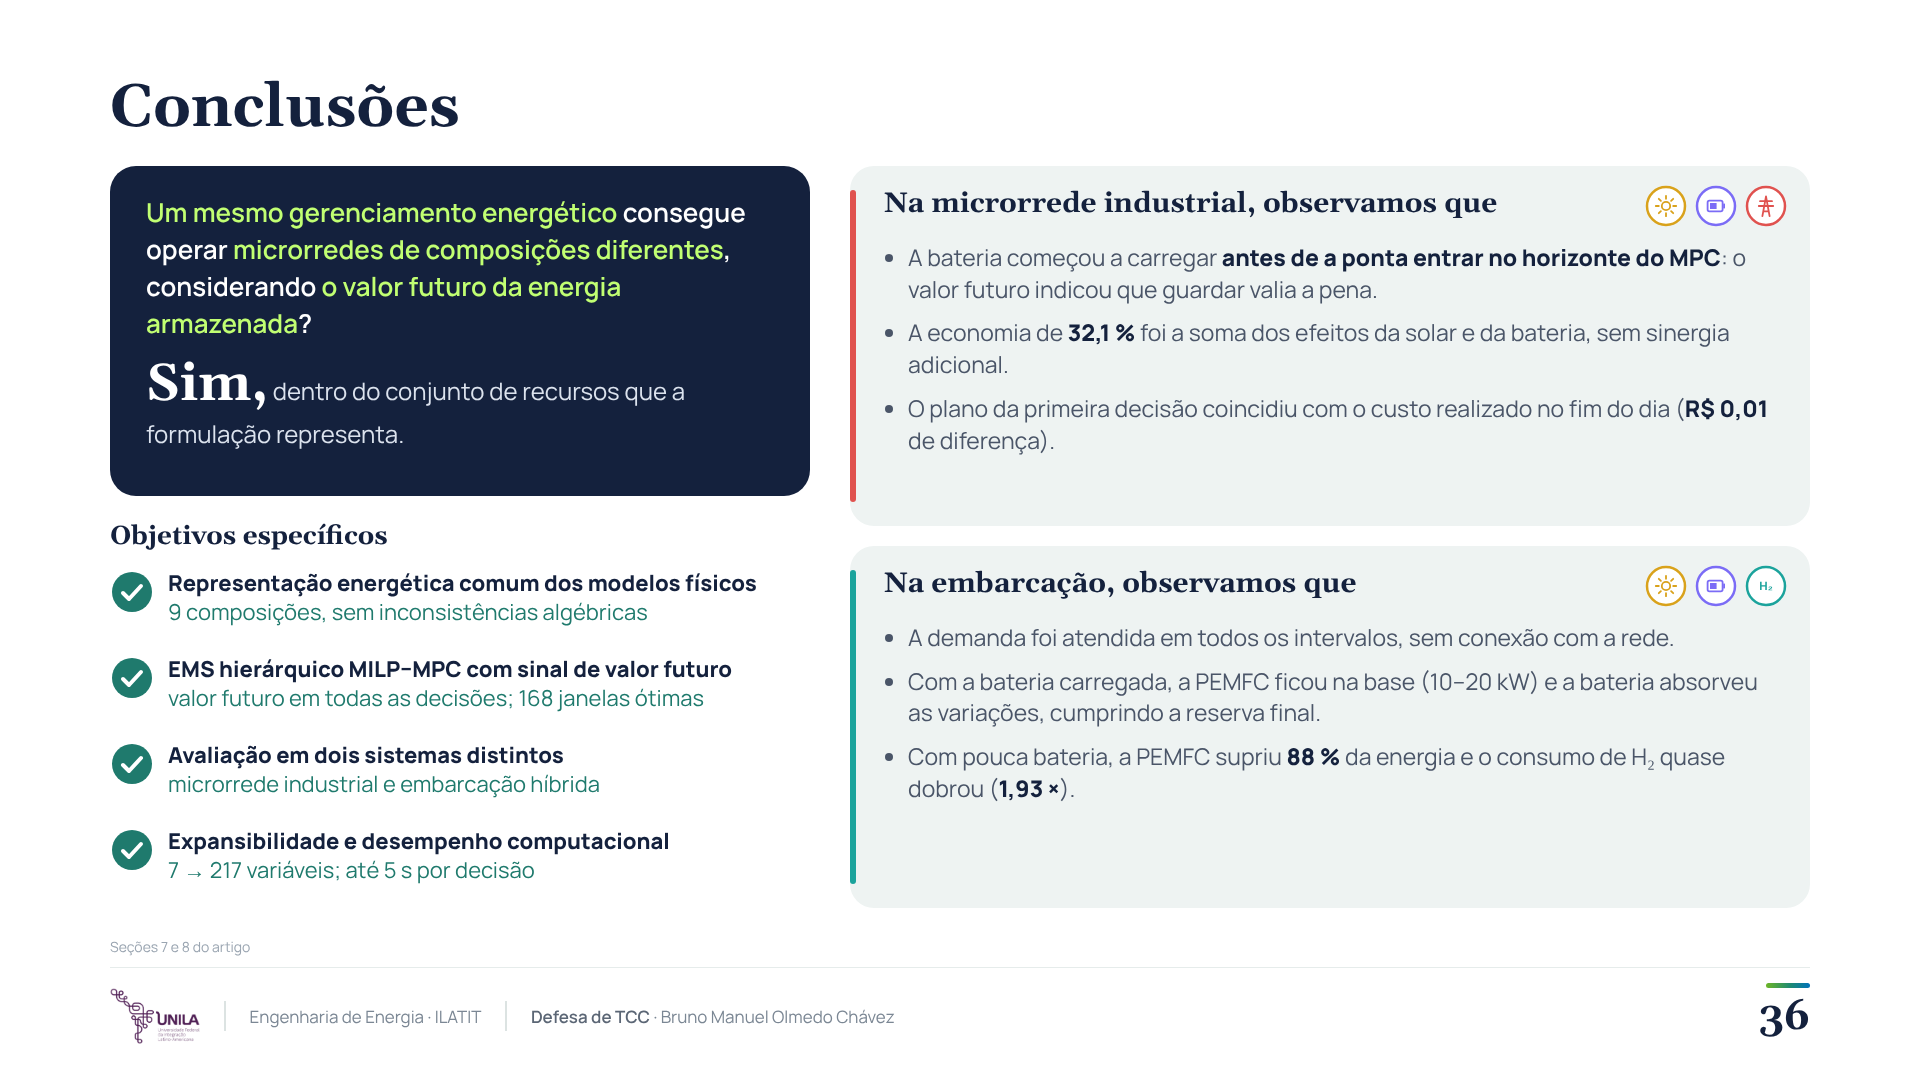
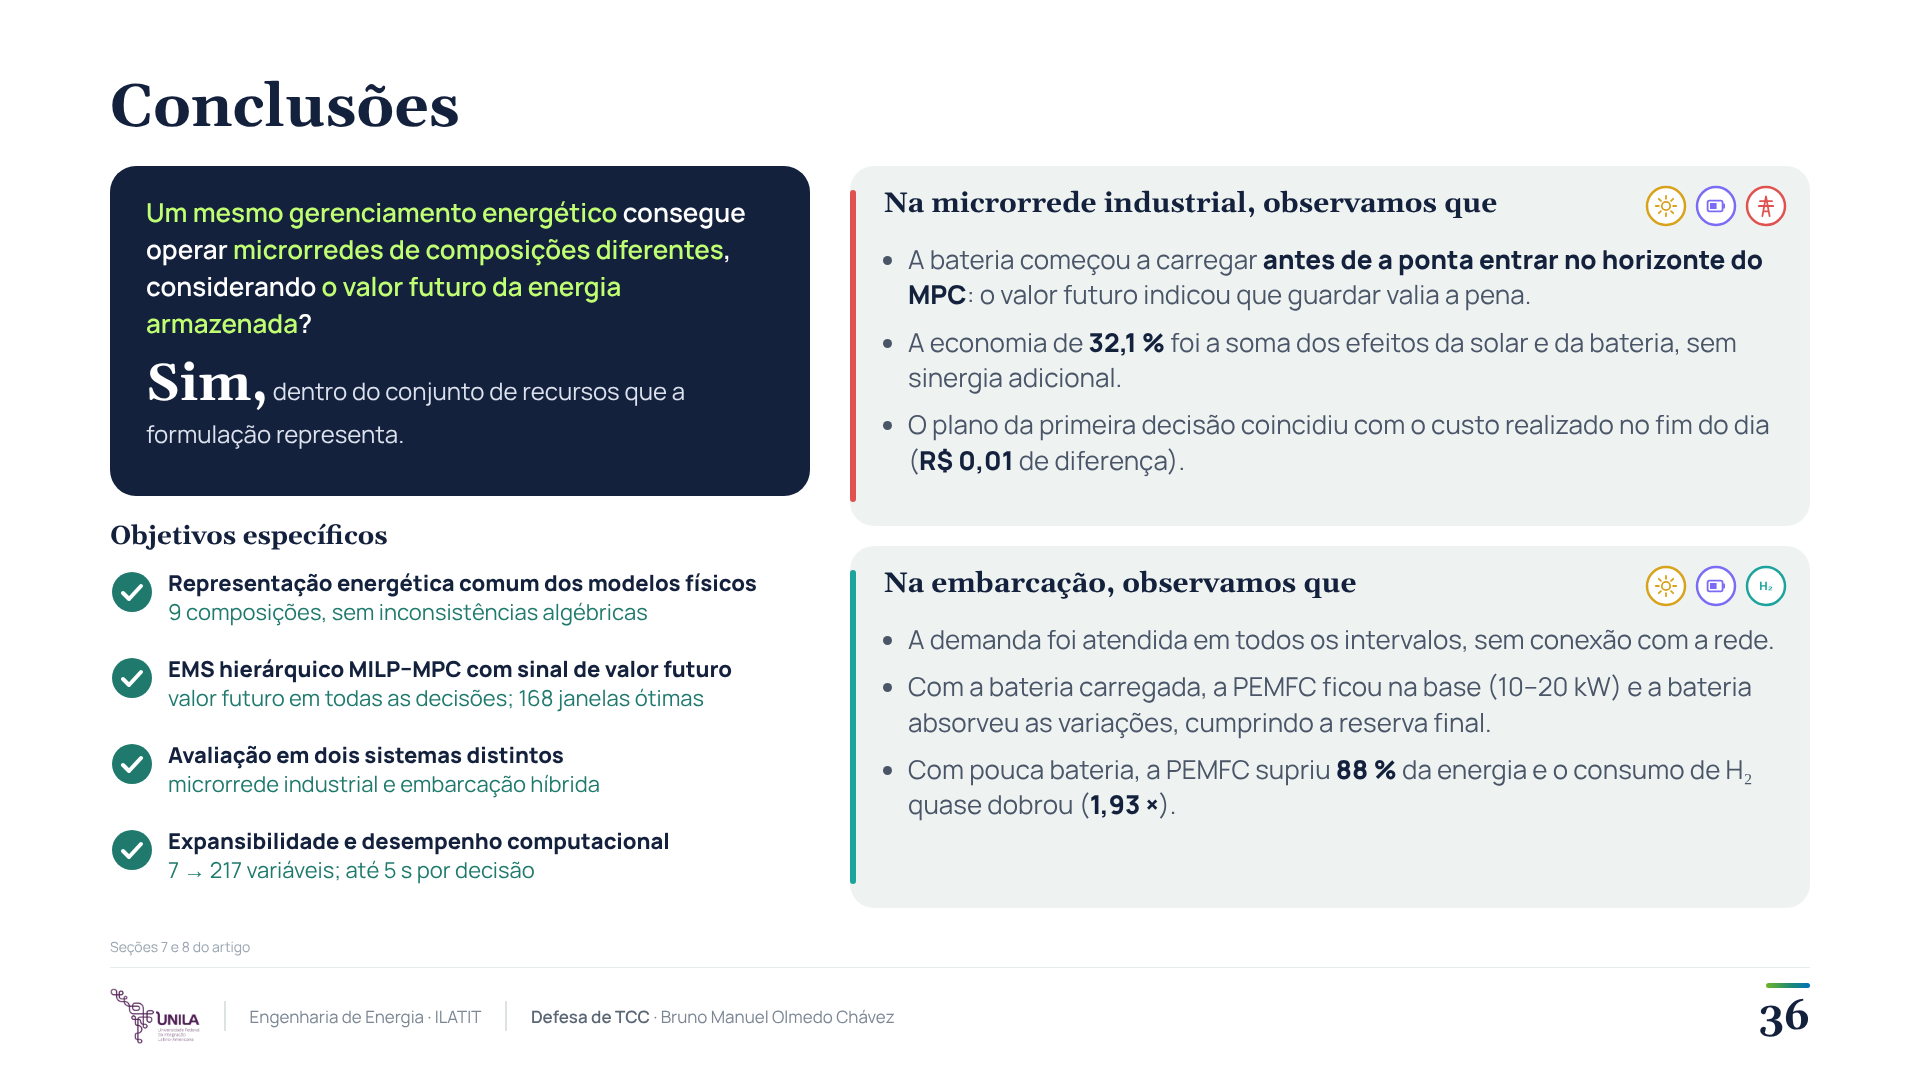
docs(defesa): slide 36 — texto dos cartões da direita maior (26 px)
Claude-Session: https://claude.ai/code/session_01WQ2GpNmr661smFWiS8XCqs

Changed region(s): [[0.4688, 0.2139, 0.9375, 0.4583], [0.4688, 0.5806, 0.9375, 0.7639]]

diff --git a/docs/defesa_tcc/slides/S36_conclusoes.html b/docs/defesa_tcc/slides/S36_conclusoes.html
@@ -16,4 +16,4 @@ html,body{width:1920px;height:1080px;overflow:hidden;background:#fff}
 .p b{font-weight:800;color:#14213D}
 .p i{font-style:normal;color:#C0532F;font-weight:800}
 .p u{text-decoration:none;color:#1F7A6D;font-weight:800}
-</style></head><body><div class="slide"><div class="tt">Conclusões</div><svg width="1920" height="1080" viewBox="0 0 1920 1080" style="position:absolute;left:0;top:0"><rect x="110" y="166" width="700" height="330" rx="26" fill="#14213D"/><circle cx="132" cy="592" r="20" fill="#1F7A6D"/><g transform="translate(112 572)"><path d="M11 21 L17 27 L29 14" fill="none" stroke="#fff" stroke-width="4" stroke-linecap="round" stroke-linejoin="round"/></g><circle cx="132" cy="678" r="20" fill="#1F7A6D"/><g transform="translate(112 658)"><path d="M11 21 L17 27 L29 14" fill="none" stroke="#fff" stroke-width="4" stroke-linecap="round" stroke-linejoin="round"/></g><circle cx="132" cy="764" r="20" fill="#1F7A6D"/><g transform="translate(112 744)"><path d="M11 21 L17 27 L29 14" fill="none" stroke="#fff" stroke-width="4" stroke-linecap="round" stroke-linejoin="round"/></g><circle cx="132" cy="850" r="20" fill="#1F7A6D"/><g transform="translate(112 830)"><path d="M11 21 L17 27 L29 14" fill="none" stroke="#fff" stroke-width="4" stroke-linecap="round" stroke-linejoin="round"/></g><rect x="850" y="166" width="960" height="360" rx="24" fill="#EEF3F2"/><rect x="850" y="190" width="6" height="312" rx="3" fill="#E0524F"/><circle cx="1666" cy="206" r="19" fill="#fff" stroke="#D9A21B" stroke-width="2.5"/><svg x="1654" y="194" width="24" height="24" viewBox="0 0 40 40" style="color:#D9A21B"><circle cx="20" cy="20" r="7" fill="none" stroke="currentColor" stroke-width="3"/><g stroke="currentColor" stroke-width="3" stroke-linecap="round"><path d="M20 3v5M20 32v5M3 20h5M32 20h5M8 8l3.5 3.5M28.5 28.5L32 32M8 32l3.5-3.5M28.5 11.5L32 8"/></g></svg><circle cx="1716" cy="206" r="19" fill="#fff" stroke="#7B6CF6" stroke-width="2.5"/><svg x="1704" y="194" width="24" height="24" viewBox="0 0 40 40" style="color:#7B6CF6"><rect x="6" y="11" width="25" height="18" rx="3" fill="none" stroke="currentColor" stroke-width="3"/><rect x="32" y="16" width="3" height="8" fill="currentColor"/><rect x="10" y="15" width="11" height="10" fill="currentColor"/></svg><circle cx="1766" cy="206" r="19" fill="#fff" stroke="#E0524F" stroke-width="2.5"/><svg x="1754" y="194" width="24" height="24" viewBox="0 0 40 40" style="color:#E0524F"><g fill="none" stroke="currentColor" stroke-width="3" stroke-linejoin="round" stroke-linecap="round"><path d="M14 37L20 4l6 33M10 12h20M8 20h24M16 29h8"/></g></svg><rect x="850" y="546" width="960" height="362" rx="24" fill="#EEF3F2"/><rect x="850" y="570" width="6" height="314" rx="3" fill="#1BA39C"/><circle cx="1666" cy="586" r="19" fill="#fff" stroke="#D9A21B" stroke-width="2.5"/><svg x="1654" y="574" width="24" height="24" viewBox="0 0 40 40" style="color:#D9A21B"><circle cx="20" cy="20" r="7" fill="none" stroke="currentColor" stroke-width="3"/><g stroke="currentColor" stroke-width="3" stroke-linecap="round"><path d="M20 3v5M20 32v5M3 20h5M32 20h5M8 8l3.5 3.5M28.5 28.5L32 32M8 32l3.5-3.5M28.5 11.5L32 8"/></g></svg><circle cx="1716" cy="586" r="19" fill="#fff" stroke="#7B6CF6" stroke-width="2.5"/><svg x="1704" y="574" width="24" height="24" viewBox="0 0 40 40" style="color:#7B6CF6"><rect x="6" y="11" width="25" height="18" rx="3" fill="none" stroke="currentColor" stroke-width="3"/><rect x="32" y="16" width="3" height="8" fill="currentColor"/><rect x="10" y="15" width="11" height="10" fill="currentColor"/></svg><circle cx="1766" cy="586" r="19" fill="#fff" stroke="#1BA39C" stroke-width="2.5"/><svg x="1754" y="574" width="24" height="24" viewBox="0 0 40 40" style="color:#1BA39C"><text x="20" y="27" text-anchor="middle" font-family="Manrope,sans-serif" font-weight="800" font-size="19" fill="currentColor">H₂</text></svg></svg><div class="d " style="left:146px;top:194px;width:630px;font:600 26px/1.42 Manrope;color:#fff"><span style="color:#C1FF72">Um mesmo gerenciamento energético</span> consegue operar <span style="color:#C1FF72">microrredes de composições diferentes</span>, considerando <span style="color:#C1FF72">o valor futuro da energia armazenada</span>?</div><div class="d " style="left:146px;top:352px;width:630px;line-height:1.2"><span style="font:700 52px Gelasio,serif;color:#fff">Sim,</span><span style="font:500 24px/1.35 Manrope;color:#DCE3EE"> dentro do conjunto de recursos que a formulação representa.</span></div><div class="d " style="left:110px;top:520px;width:700px;font:700 26px Gelasio,serif;color:#14213D">Objetivos específicos</div><div class="d " style="left:168px;top:570px;width:640px;"><div style="font:700 22px/1.25 Manrope;color:#14213D">Representação energética comum dos modelos físicos</div><div style="font:500 22px/1.3 Manrope;color:#1F7A6D">9 composições, sem inconsistências algébricas</div></div><div class="d " style="left:168px;top:656px;width:640px;"><div style="font:700 22px/1.25 Manrope;color:#14213D">EMS hierárquico MILP–MPC com sinal de valor futuro</div><div style="font:500 22px/1.3 Manrope;color:#1F7A6D">valor futuro em todas as decisões; 168 janelas ótimas</div></div><div class="d " style="left:168px;top:742px;width:640px;"><div style="font:700 22px/1.25 Manrope;color:#14213D">Avaliação em dois sistemas distintos</div><div style="font:500 22px/1.3 Manrope;color:#1F7A6D">microrrede industrial e embarcação híbrida</div></div><div class="d " style="left:168px;top:828px;width:640px;"><div style="font:700 22px/1.25 Manrope;color:#14213D">Expansibilidade e desempenho computacional</div><div style="font:500 22px/1.3 Manrope;color:#1F7A6D">7 → 217 variáveis; até 5 s por decisão</div></div><div class="d " style="left:884px;top:186px;width:700px;font:700 28px Gelasio,serif;color:#14213D">Na microrrede industrial, observamos que</div><div class="d p" style="left:884px;top:242px;width:892px;font-size:23px;line-height:1.38"><ul style="margin:0;padding-left:24px"><li style="margin:0 0 12px 0">A bateria começou a carregar <b>antes de a ponta entrar no horizonte do MPC</b>: o valor futuro indicou que guardar valia a pena.</li><li style="margin:0 0 12px 0">A economia de <b>32,1&nbsp;%</b> foi a soma dos efeitos da solar e da bateria, sem sinergia adicional.</li><li style="margin:0 0 12px 0">O plano da primeira decisão coincidiu com o custo realizado no fim do dia (<b>R$&nbsp;0,01</b> de diferença).</li></ul></div><div class="d " style="left:884px;top:566px;width:700px;font:700 28px Gelasio,serif;color:#14213D">Na embarcação, observamos que</div><div class="d p" style="left:884px;top:622px;width:892px;font-size:23px;line-height:1.38"><ul style="margin:0;padding-left:24px"><li style="margin:0 0 12px 0">A demanda foi atendida em todos os intervalos, sem conexão com a rede.</li><li style="margin:0 0 12px 0">Com a bateria carregada, a PEMFC ficou na base (10–20&nbsp;kW) e a bateria absorveu as variações, cumprindo a reserva final.</li><li style="margin:0 0 12px 0">Com pouca bateria, a PEMFC supriu <b>88&nbsp;%</b> da energia e o consumo de H₂ quase dobrou (<b>1,93&nbsp;×</b>).</li></ul></div><div class="ref">Seções 7 e 8 do artigo</div><div class="hl" style="bottom:112px"></div><div class="ft"><img src="../capa/assets/unila.png"><div class="sep"></div><span>Engenharia de Energia · ILATIT</span><div class="sep"></div><span><b>Defesa de TCC</b> · Bruno Manuel Olmedo Chávez</span></div><div class="pn">36</div></div></body></html>
+</style></head><body><div class="slide"><div class="tt">Conclusões</div><svg width="1920" height="1080" viewBox="0 0 1920 1080" style="position:absolute;left:0;top:0"><rect x="110" y="166" width="700" height="330" rx="26" fill="#14213D"/><circle cx="132" cy="592" r="20" fill="#1F7A6D"/><g transform="translate(112 572)"><path d="M11 21 L17 27 L29 14" fill="none" stroke="#fff" stroke-width="4" stroke-linecap="round" stroke-linejoin="round"/></g><circle cx="132" cy="678" r="20" fill="#1F7A6D"/><g transform="translate(112 658)"><path d="M11 21 L17 27 L29 14" fill="none" stroke="#fff" stroke-width="4" stroke-linecap="round" stroke-linejoin="round"/></g><circle cx="132" cy="764" r="20" fill="#1F7A6D"/><g transform="translate(112 744)"><path d="M11 21 L17 27 L29 14" fill="none" stroke="#fff" stroke-width="4" stroke-linecap="round" stroke-linejoin="round"/></g><circle cx="132" cy="850" r="20" fill="#1F7A6D"/><g transform="translate(112 830)"><path d="M11 21 L17 27 L29 14" fill="none" stroke="#fff" stroke-width="4" stroke-linecap="round" stroke-linejoin="round"/></g><rect x="850" y="166" width="960" height="360" rx="24" fill="#EEF3F2"/><rect x="850" y="190" width="6" height="312" rx="3" fill="#E0524F"/><circle cx="1666" cy="206" r="19" fill="#fff" stroke="#D9A21B" stroke-width="2.5"/><svg x="1654" y="194" width="24" height="24" viewBox="0 0 40 40" style="color:#D9A21B"><circle cx="20" cy="20" r="7" fill="none" stroke="currentColor" stroke-width="3"/><g stroke="currentColor" stroke-width="3" stroke-linecap="round"><path d="M20 3v5M20 32v5M3 20h5M32 20h5M8 8l3.5 3.5M28.5 28.5L32 32M8 32l3.5-3.5M28.5 11.5L32 8"/></g></svg><circle cx="1716" cy="206" r="19" fill="#fff" stroke="#7B6CF6" stroke-width="2.5"/><svg x="1704" y="194" width="24" height="24" viewBox="0 0 40 40" style="color:#7B6CF6"><rect x="6" y="11" width="25" height="18" rx="3" fill="none" stroke="currentColor" stroke-width="3"/><rect x="32" y="16" width="3" height="8" fill="currentColor"/><rect x="10" y="15" width="11" height="10" fill="currentColor"/></svg><circle cx="1766" cy="206" r="19" fill="#fff" stroke="#E0524F" stroke-width="2.5"/><svg x="1754" y="194" width="24" height="24" viewBox="0 0 40 40" style="color:#E0524F"><g fill="none" stroke="currentColor" stroke-width="3" stroke-linejoin="round" stroke-linecap="round"><path d="M14 37L20 4l6 33M10 12h20M8 20h24M16 29h8"/></g></svg><rect x="850" y="546" width="960" height="362" rx="24" fill="#EEF3F2"/><rect x="850" y="570" width="6" height="314" rx="3" fill="#1BA39C"/><circle cx="1666" cy="586" r="19" fill="#fff" stroke="#D9A21B" stroke-width="2.5"/><svg x="1654" y="574" width="24" height="24" viewBox="0 0 40 40" style="color:#D9A21B"><circle cx="20" cy="20" r="7" fill="none" stroke="currentColor" stroke-width="3"/><g stroke="currentColor" stroke-width="3" stroke-linecap="round"><path d="M20 3v5M20 32v5M3 20h5M32 20h5M8 8l3.5 3.5M28.5 28.5L32 32M8 32l3.5-3.5M28.5 11.5L32 8"/></g></svg><circle cx="1716" cy="586" r="19" fill="#fff" stroke="#7B6CF6" stroke-width="2.5"/><svg x="1704" y="574" width="24" height="24" viewBox="0 0 40 40" style="color:#7B6CF6"><rect x="6" y="11" width="25" height="18" rx="3" fill="none" stroke="currentColor" stroke-width="3"/><rect x="32" y="16" width="3" height="8" fill="currentColor"/><rect x="10" y="15" width="11" height="10" fill="currentColor"/></svg><circle cx="1766" cy="586" r="19" fill="#fff" stroke="#1BA39C" stroke-width="2.5"/><svg x="1754" y="574" width="24" height="24" viewBox="0 0 40 40" style="color:#1BA39C"><text x="20" y="27" text-anchor="middle" font-family="Manrope,sans-serif" font-weight="800" font-size="19" fill="currentColor">H₂</text></svg></svg><div class="d " style="left:146px;top:194px;width:630px;font:600 26px/1.42 Manrope;color:#fff"><span style="color:#C1FF72">Um mesmo gerenciamento energético</span> consegue operar <span style="color:#C1FF72">microrredes de composições diferentes</span>, considerando <span style="color:#C1FF72">o valor futuro da energia armazenada</span>?</div><div class="d " style="left:146px;top:352px;width:630px;line-height:1.2"><span style="font:700 52px Gelasio,serif;color:#fff">Sim,</span><span style="font:500 24px/1.35 Manrope;color:#DCE3EE"> dentro do conjunto de recursos que a formulação representa.</span></div><div class="d " style="left:110px;top:520px;width:700px;font:700 26px Gelasio,serif;color:#14213D">Objetivos específicos</div><div class="d " style="left:168px;top:570px;width:640px;"><div style="font:700 22px/1.25 Manrope;color:#14213D">Representação energética comum dos modelos físicos</div><div style="font:500 22px/1.3 Manrope;color:#1F7A6D">9 composições, sem inconsistências algébricas</div></div><div class="d " style="left:168px;top:656px;width:640px;"><div style="font:700 22px/1.25 Manrope;color:#14213D">EMS hierárquico MILP–MPC com sinal de valor futuro</div><div style="font:500 22px/1.3 Manrope;color:#1F7A6D">valor futuro em todas as decisões; 168 janelas ótimas</div></div><div class="d " style="left:168px;top:742px;width:640px;"><div style="font:700 22px/1.25 Manrope;color:#14213D">Avaliação em dois sistemas distintos</div><div style="font:500 22px/1.3 Manrope;color:#1F7A6D">microrrede industrial e embarcação híbrida</div></div><div class="d " style="left:168px;top:828px;width:640px;"><div style="font:700 22px/1.25 Manrope;color:#14213D">Expansibilidade e desempenho computacional</div><div style="font:500 22px/1.3 Manrope;color:#1F7A6D">7 → 217 variáveis; até 5 s por decisão</div></div><div class="d " style="left:884px;top:186px;width:700px;font:700 28px Gelasio,serif;color:#14213D">Na microrrede industrial, observamos que</div><div class="d p" style="left:884px;top:242px;width:892px;font-size:26px;line-height:1.36"><ul style="margin:0;padding-left:24px"><li style="margin:0 0 12px 0">A bateria começou a carregar <b>antes de a ponta entrar no horizonte do MPC</b>: o valor futuro indicou que guardar valia a pena.</li><li style="margin:0 0 12px 0">A economia de <b>32,1&nbsp;%</b> foi a soma dos efeitos da solar e da bateria, sem sinergia adicional.</li><li style="margin:0 0 12px 0">O plano da primeira decisão coincidiu com o custo realizado no fim do dia (<b>R$&nbsp;0,01</b> de diferença).</li></ul></div><div class="d " style="left:884px;top:566px;width:700px;font:700 28px Gelasio,serif;color:#14213D">Na embarcação, observamos que</div><div class="d p" style="left:884px;top:622px;width:892px;font-size:26px;line-height:1.36"><ul style="margin:0;padding-left:24px"><li style="margin:0 0 12px 0">A demanda foi atendida em todos os intervalos, sem conexão com a rede.</li><li style="margin:0 0 12px 0">Com a bateria carregada, a PEMFC ficou na base (10–20&nbsp;kW) e a bateria absorveu as variações, cumprindo a reserva final.</li><li style="margin:0 0 12px 0">Com pouca bateria, a PEMFC supriu <b>88&nbsp;%</b> da energia e o consumo de H₂ quase dobrou (<b>1,93&nbsp;×</b>).</li></ul></div><div class="ref">Seções 7 e 8 do artigo</div><div class="hl" style="bottom:112px"></div><div class="ft"><img src="../capa/assets/unila.png"><div class="sep"></div><span>Engenharia de Energia · ILATIT</span><div class="sep"></div><span><b>Defesa de TCC</b> · Bruno Manuel Olmedo Chávez</span></div><div class="pn">36</div></div></body></html>

diff --git a/docs/defesa_tcc/slides/gerar_slide36.py b/docs/defesa_tcc/slides/gerar_slide36.py
@@ -29,7 +29,7 @@ def estudo(x, y, w, hc, cor, icones, titulo, pontos):
         s += f'<circle cx="{cx}" cy="{y+40}" r="19" fill="#fff" stroke="{c}" stroke-width="2.5"/>' + ic(kk, cx - 12, y + 28, 24, c)
     h = div(x + 34, y + 20, w - 260, None, titulo, "", "font:700 28px Gelasio,serif;color:#14213D")
     lis = "".join(f'<li style="margin:0 0 12px 0">{p}</li>' for p in pontos)
-    h += div(x + 34, y + 76, w - 68, None, f'<ul style="margin:0;padding-left:24px">{lis}</ul>', "p", "font-size:23px;line-height:1.38")
+    h += div(x + 34, y + 76, w - 68, None, f'<ul style="margin:0;padding-left:24px">{lis}</ul>', "p", "font-size:26px;line-height:1.36")
     return s, h
 
 
